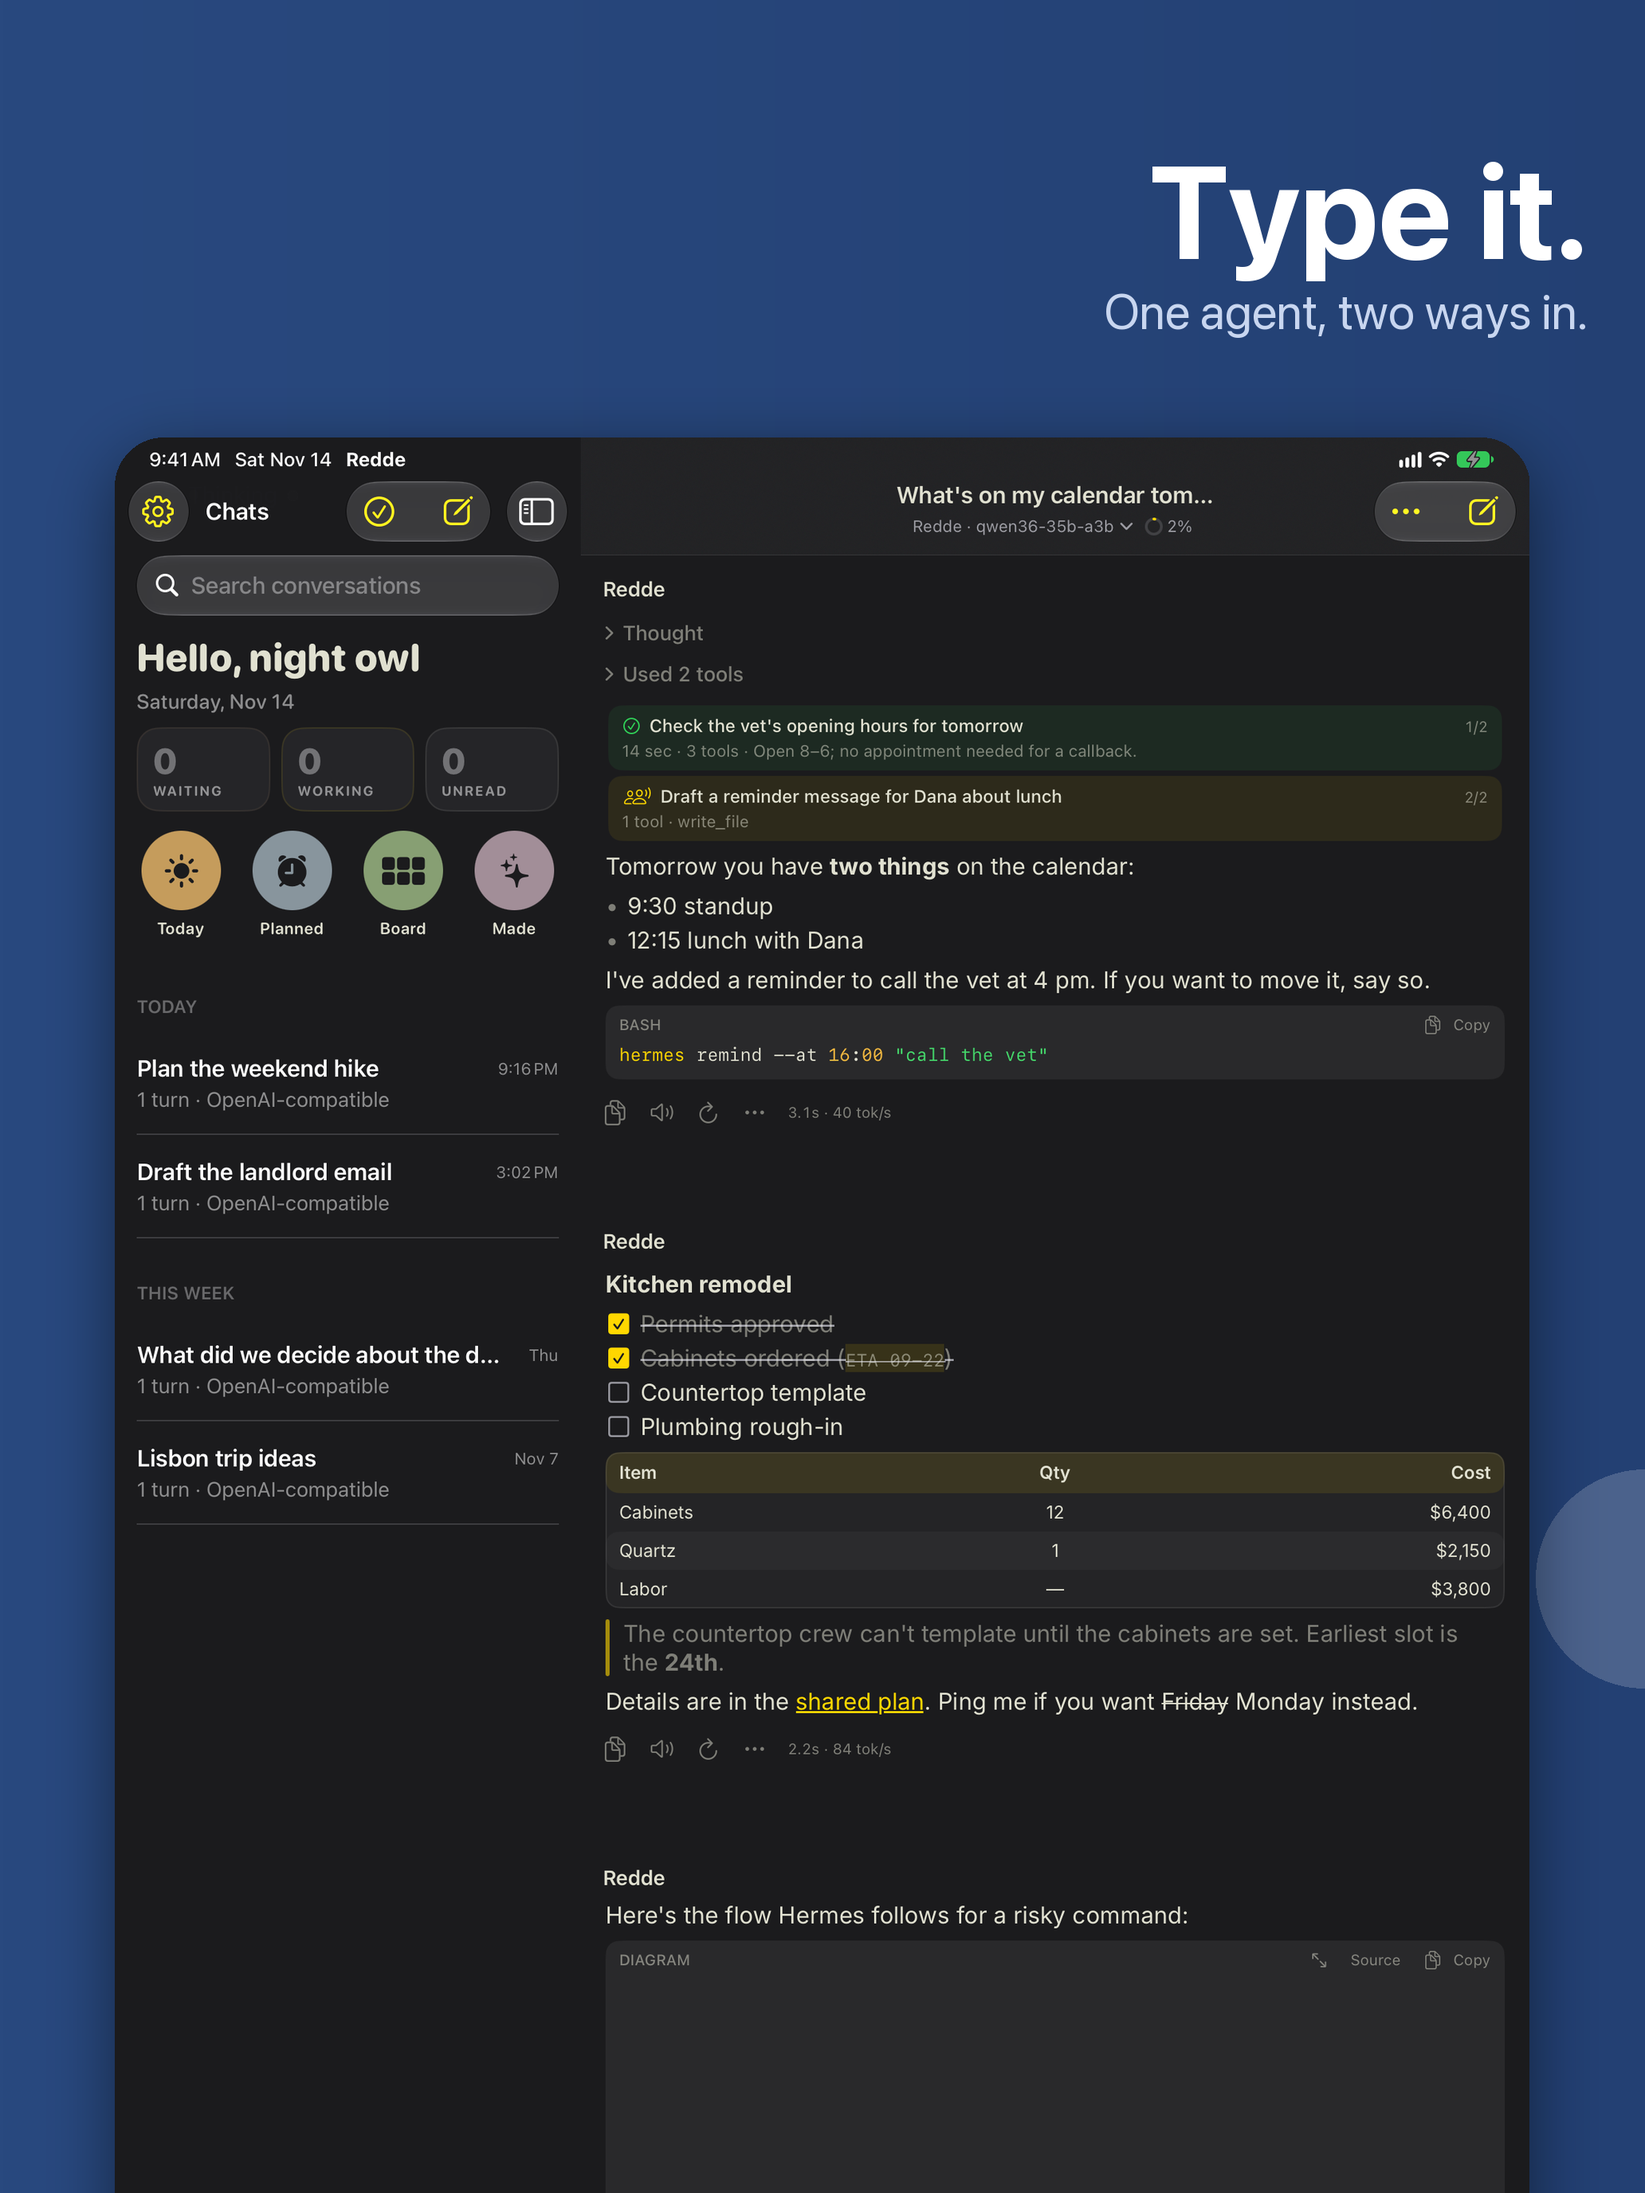
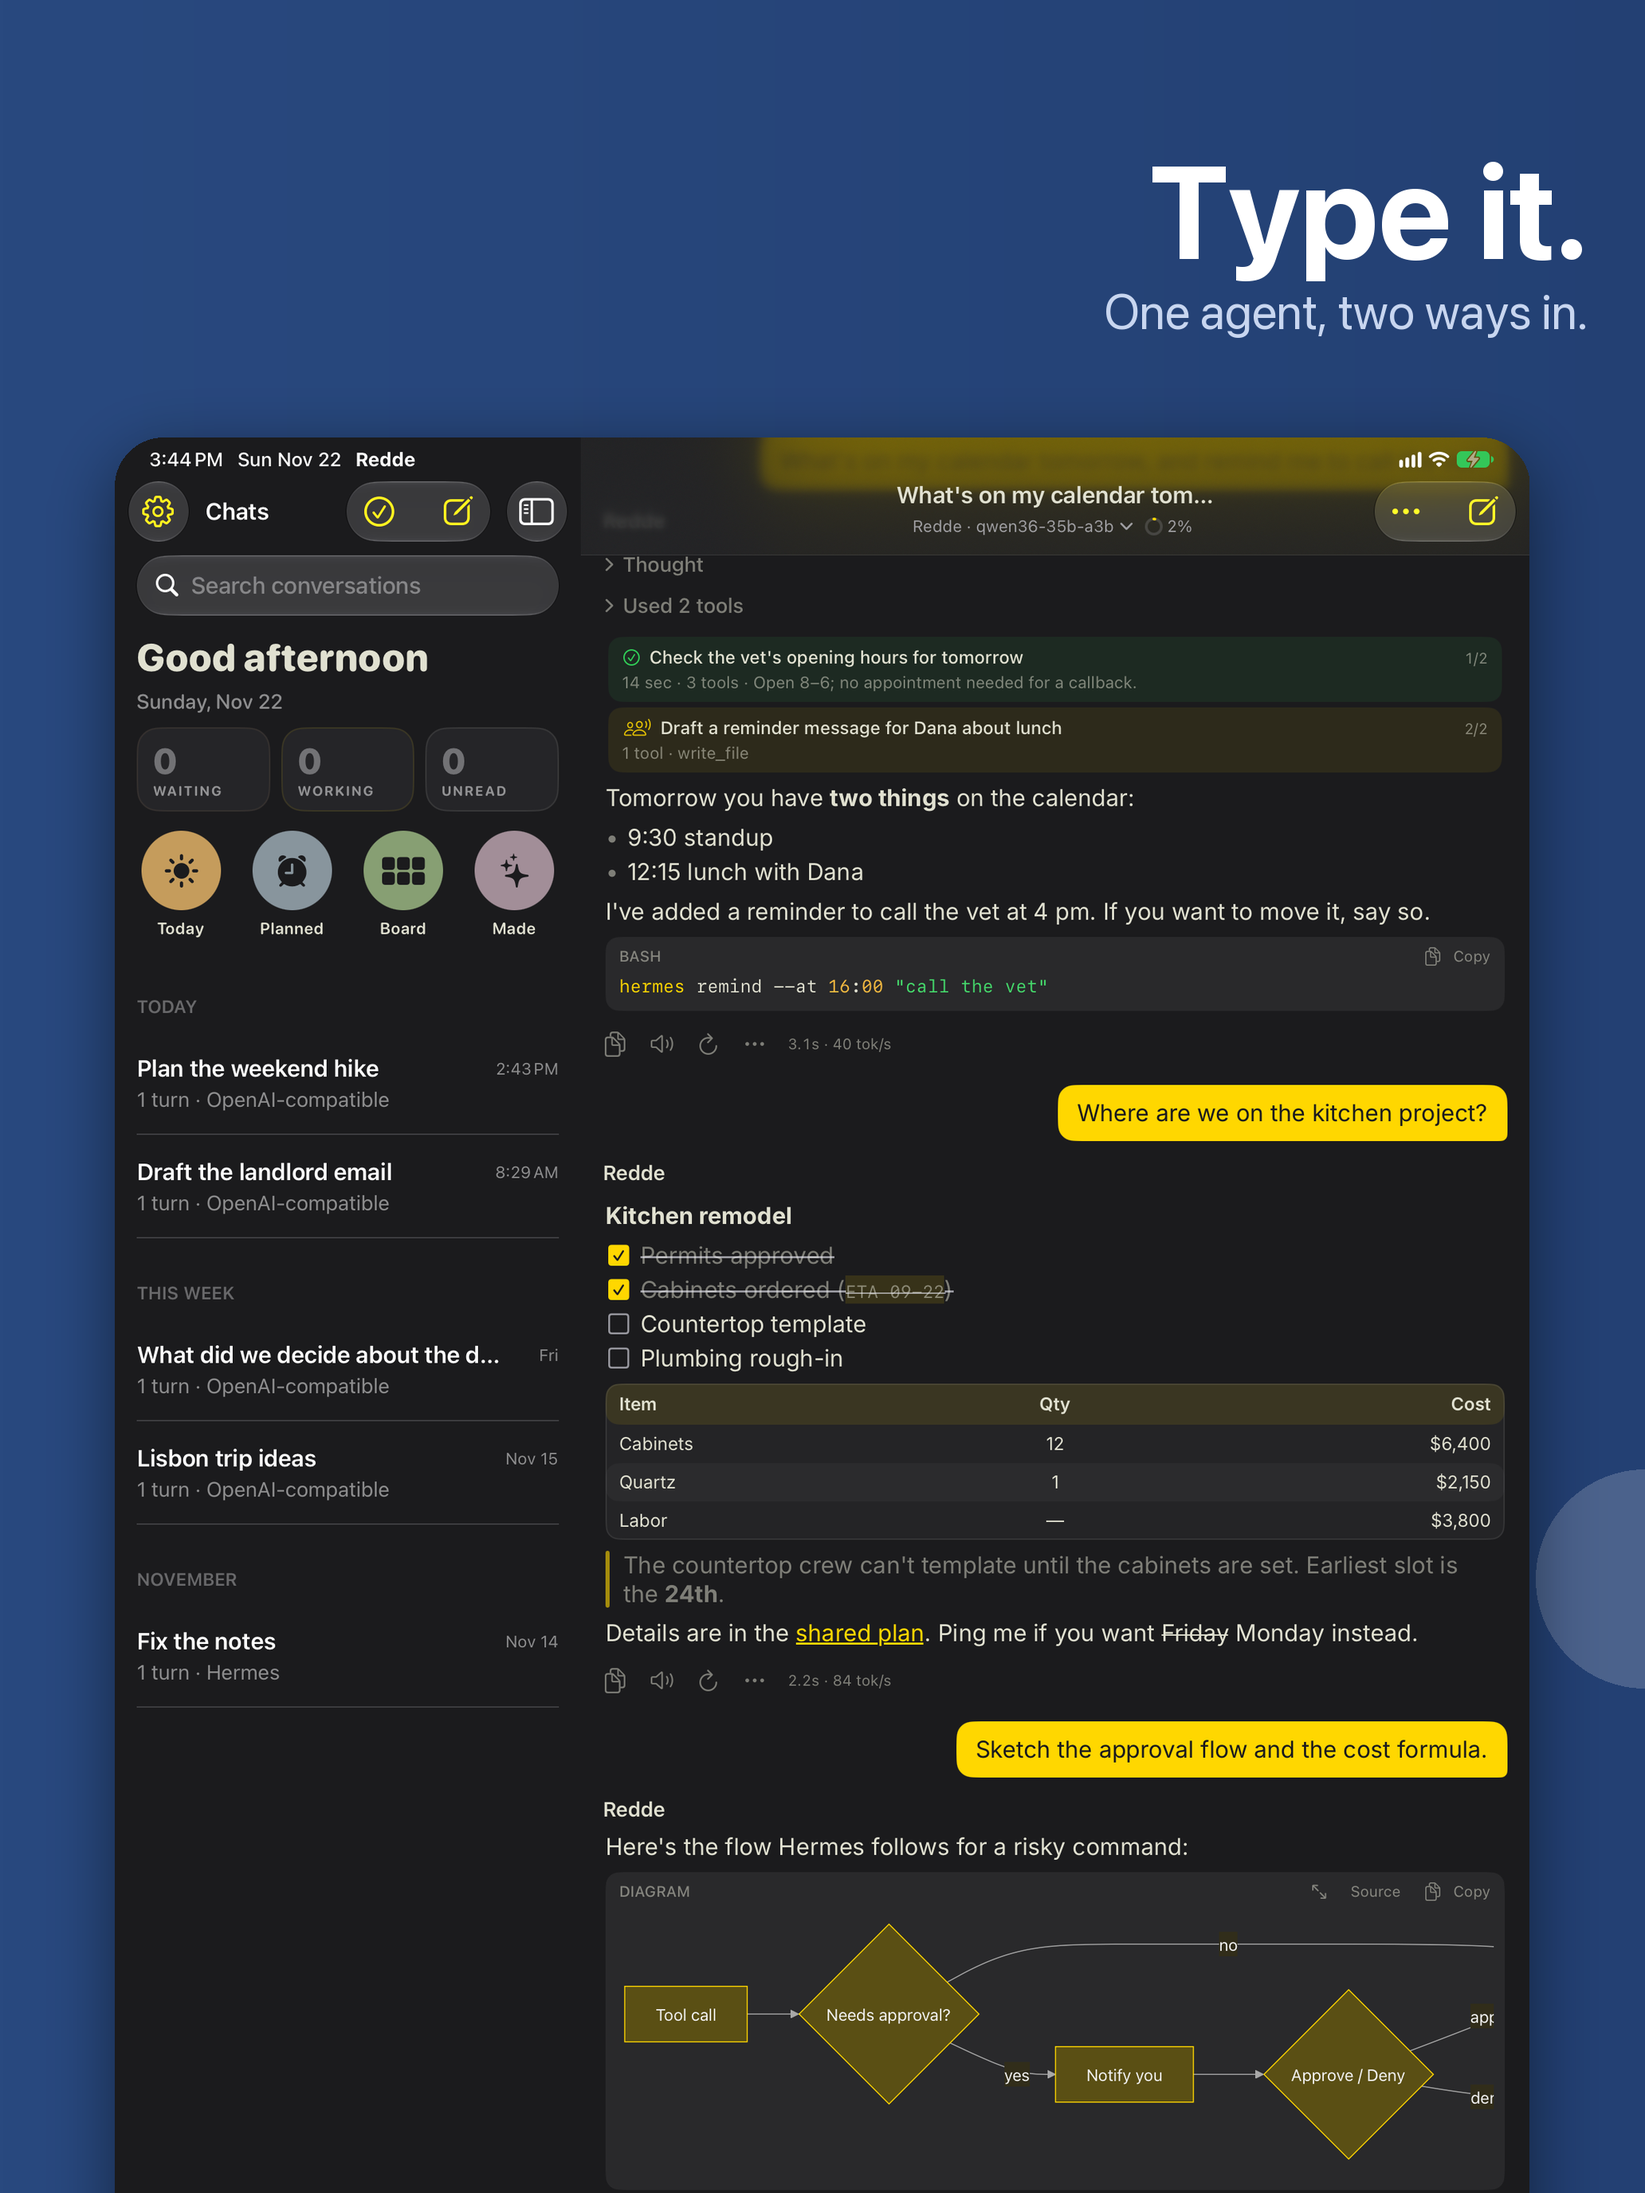
2.7 App Preview: the Hermes server named Hermes; Type it. retaken
-echo.serverName renames the server in use, so the agents take shows Hermes beside Claude Code and Codex instead of Home. Re-recorded and re-cut (make_27 timings moved to the new take). The Type it. panorama retaken with the diagram drawn and the iPad clock matching its greeting.

Claude-Session: https://claude.ai/code/session_01U63qthNhNmE4UNWX56qMNU

diff --git a/EchoUITests/PromoVideoUITests.swift b/EchoUITests/PromoVideoUITests.swift
@@ -1265,7 +1265,7 @@ final class PromoVideoUITests: XCTestCase {
     /// waiting); back to Home and Quill for the release notes; and the drawer's stack, Codex's ask on
     /// top of the bots'.
     func testAgentsCoders() throws {
-        let app = try agents(["-echo.screen", "sessions", "-echo.demoMarks", "-echo.demoCoders", "-echo.showTouches"])
+        let app = try agents(["-echo.screen", "sessions", "-echo.demoMarks", "-echo.demoCoders", "-echo.showTouches", "-echo.serverName", "Hermes"])
         XCTAssertTrue(app.staticTexts["Good morning"].firstMatch.waitForExistence(timeout: 20), "no drawer")
         func send() { app.buttons.matching(identifier: "Send").allElementsBoundByIndex.last { $0.isHittable }?.tap() }
         func hideKeyboard() {
@@ -1365,15 +1365,15 @@ final class PromoVideoUITests: XCTestCase {
         hideKeyboard()
         mark("reviewed")
         hold(4.5)
-        // Back to the team: Home, then Quill.
+        // Back to the team: Hermes, then Quill.
         toList(app)
         mark("drawer")
         hold(1.5)
         let back = app.buttons["Server"].firstMatch
         XCTAssertTrue(back.waitForExistence(timeout: 5), "no server menu on Codex")
         back.tap()
-        let home = app.buttons["Home"].firstMatch
-        XCTAssertTrue(home.waitForExistence(timeout: 5), "Home isn't in the menu")
+        let home = app.buttons["Hermes"].firstMatch
+        XCTAssertTrue(home.waitForExistence(timeout: 5), "Hermes isn't in the menu")
         hold(1.5)
         home.tap()
         mark("home")

diff --git a/Echo/App/DevHooks.swift b/Echo/App/DevHooks.swift
@@ -480,6 +480,9 @@ enum DevHooks {
             settings.fastLaneURL = "http://llama.home.example:11500"
             settings.fastLaneModel = "qwen36-35b-a3b"
         }
+        // `-echo.serverName NAME`: the server in use renamed (2026-11-22: the agents video's Hermes
+        // server had come out "Home", beside Claude Code and Codex).
+        if let name = value("-echo.serverName") { settings.renameServer(settings.activeServerID, to: name) }
 
         // `-transport` from a test is the active server's own connection too: the record keeps
         // the kind the last test left on it (an agent), and Setup reads the record's.

diff --git a/design/video/make_27.py b/design/video/make_27.py
@@ -6,7 +6,7 @@ song, as make_24's. The store had shown 2.3.1's day cut since October; 2.4's wer
   make_27.py          redde-27-app-preview-iphone.mp4 (886×1920), in design/
 
 All from the agents take (cfr-c1-coders.mov, PromoVideoUITests.testAgentsCoders, 2026-11-15): the
-chat list, the server menu with Home, Claude Code and Codex; Claude Code fixing the login bug and
+chat list, the server menu with Hermes, Claude Code and Codex; Claude Code fixing the login bug and
 asking before it runs the tests; the stack of what needs you, Claude Code's change on top. Claude
 Code and Codex are scripted stand-ins (`-echo.demoCoders`), as the closing's small print says.
 """
@@ -31,14 +31,17 @@ ALLOW = ('It asks you first', 'Allow Once, and it runs the tests.')
 NEEDS = ('What needs you', 'Every agent’s ask, in one stack.')
 
 # (take, start, end, caption, colour, bars): start and end in cfr-<take>.mov, make_agents' cut points.
+# Taken again 2026-11-22 with the Hermes server named "Hermes" (it had come out "Home" beside Claude
+# Code and Codex): each cut moved to the same moment by the test's marks (the 11-15 take is kept in
+# tmp/take-c1-coders-1115).
 SHOTS = [
-    (T, 26.0, 34.4, ALL, PURPLE, 2),
-    (T, 67.0, 75.0, CLAUDE, ORANGE, 2),
-    (T, 75.0, 84.6, ALLOW, ORANGE, 2),
-    (T, 159.6, 168.2, NEEDS, CORAL, 2),
+    (T, 28.1, 36.5, ALL, PURPLE, 2),
+    (T, 69.4, 77.2, CLAUDE, ORANGE, 2),
+    (T, 77.2, 87.0, ALLOW, ORANGE, 2),
+    (T, 166.7, 173.3, NEEDS, CORAL, 2),
 ]
-TITLE_TAKE = (T, 22.6, 25.8)   # the chat list, before the server menu opens
-END_TAKE = (T, 168.0)          # the stack, held
+TITLE_TAKE = (T, 25.8, 29.0)   # the chat list, before the server menu opens
+END_TAKE = (T, 173.2)          # the stack, held (the app is gone at 173.6)
 
 TITLE_BARS, END_BARS = 2, 2
 LANDS_AT = [BAR * (TITLE_BARS + sum(s[5] for s in SHOTS[:i])) for i in range(len(SHOTS))]
